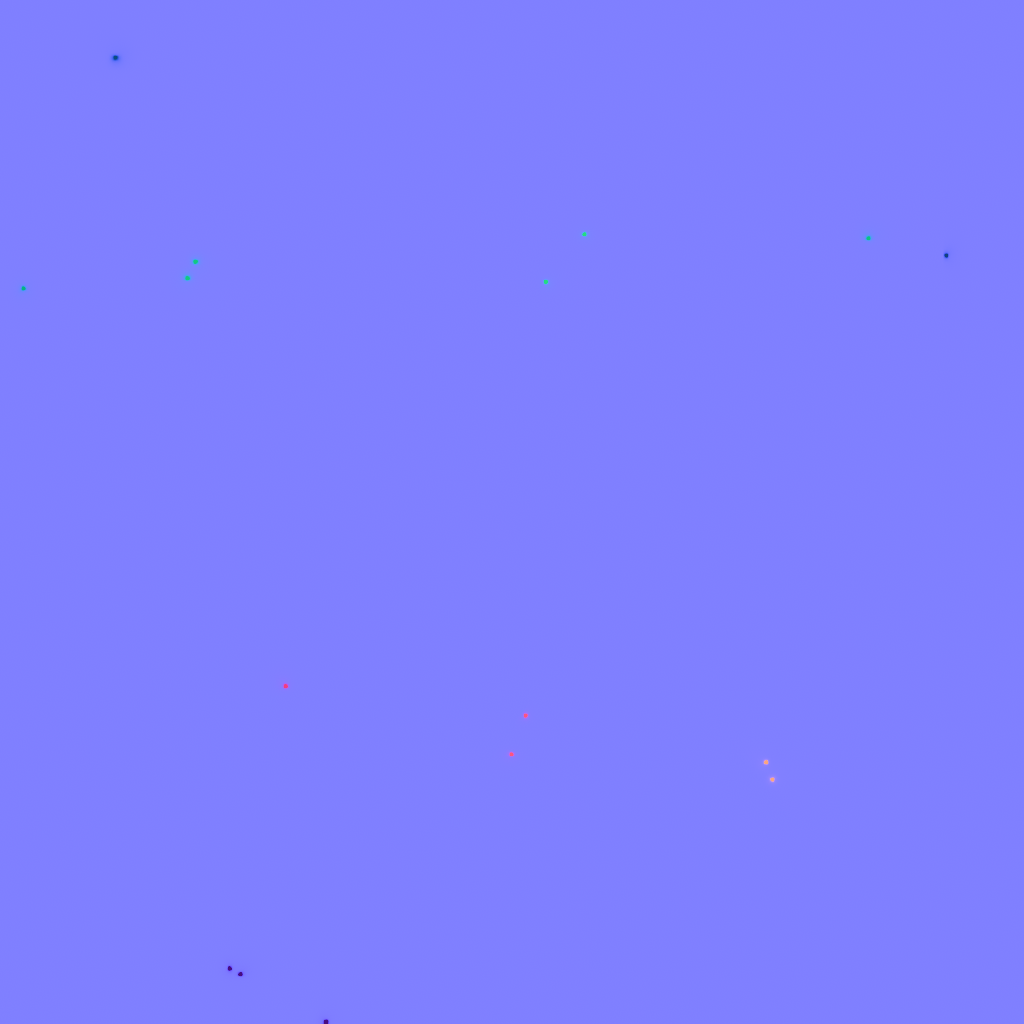
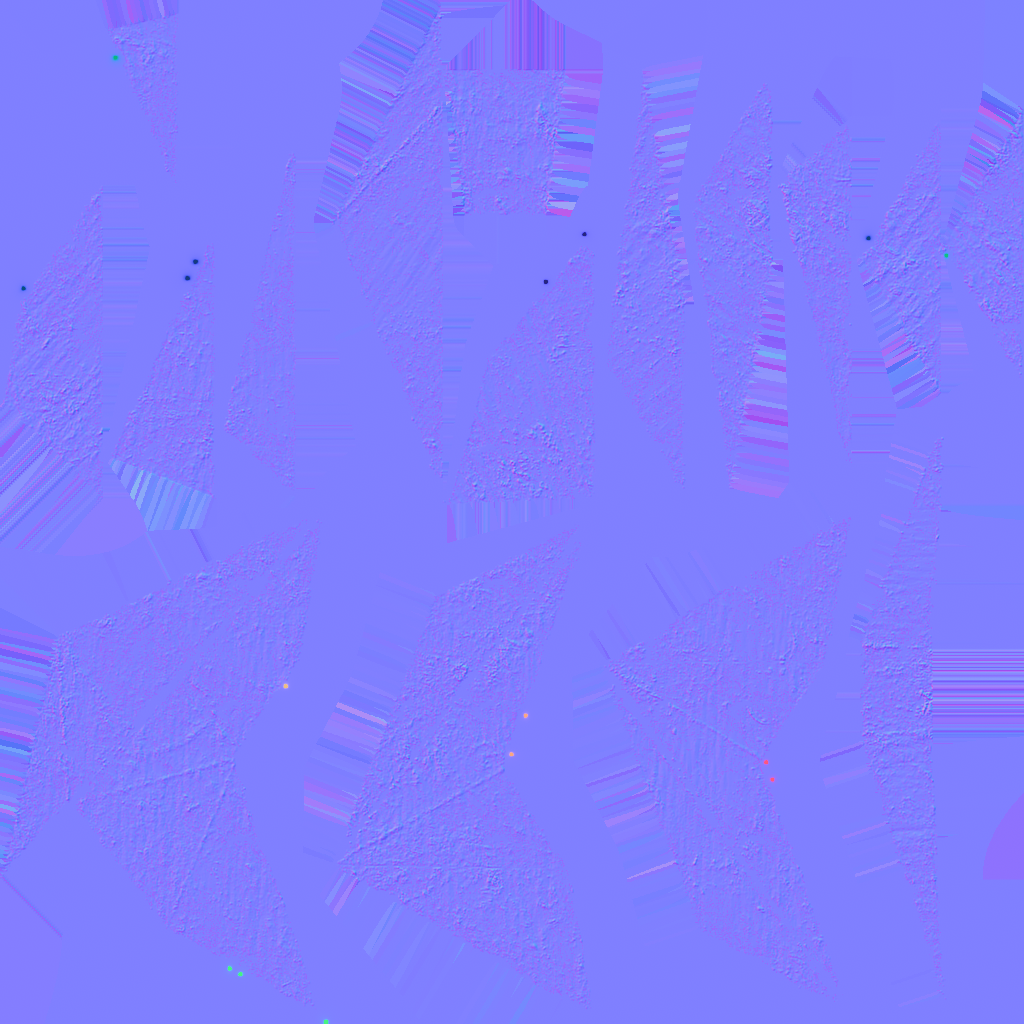
pbr

diff --git a/sf/main.cpp b/sf/main.cpp
@@ -68,28 +68,29 @@ int main(void)
 	glEnable(GL_DEPTH_TEST);
 	glClearColor(BACKGROUND_COLOR, BACKGROUND_COLOR, BACKGROUND_COLOR, 1);
 
-	Shader theShader("res/shaders/defaultV.shader", "res/shaders/defaultF.shader");
-	Shader noiseShader("user/noiseV.shader", "user/noiseF.shader");
-	Shader colorShader("user/randomColorsV.shader", "user/randomColorsF.shader");
+	Shader pbrShader("res/shaders/pbrV.shader", "res/shaders/pbrF.shader");
 
 	Texture shipTexture("user/64/wolfen/Wolfen_plate_BaseColor.png", Texture::Type::Albedo);
-	Texture shipNormalmap("user/64/wolfen/Wolfen_plate_Normal.png", Texture::Type::NormalMap);
+	Texture shipNormals("user/64/wolfen/Wolfen_plate_Normal.png", Texture::Type::NormalMap);
+	Texture shipRoughness("user/64/wolfen/Wolfen_plate_Roughness.png", Texture::Type::Albedo);
+	Texture shipMetallic("user/64/wolfen/Wolfen_plate_Metallic.png", Texture::Type::Albedo);
 
-	Texture butterflyTexture("user/64/butterfly/Butterfly Fighter_pink_AlbedoTransparency.png", Texture::Type::Albedo);
-	Texture butterflyNormalmap("user/64/butterfly/Butterfly Fighter_pink_Normal.png", Texture::Type::NormalMap);
+	Texture bTexture("user/64/butterfly/Butterfly Fighter_pink_BaseColor.png", Texture::Type::Albedo);
+	Texture bNormals("user/64/butterfly/Butterfly Fighter_pink_Normal.png", Texture::Type::NormalMap);
+	Texture bRoughness("user/64/butterfly/Butterfly Fighter_pink_Roughness.png", Texture::Type::Albedo);
+	Texture bMetallic("user/64/butterfly/Butterfly Fighter_pink_Metallic.png", Texture::Type::Albedo);
 
-	Texture babyTexture("user/64/bb/young_darkskinned_male_diffuse.png", Texture::Type::Albedo);
+	Material shipMaterial(&pbrShader);
+	shipMaterial.SetUniform("albedoTexture", &shipTexture, Material::UniformType::_Texture);
+	shipMaterial.SetUniform("normalTexture", &shipNormals, Material::UniformType::_Texture);
+	shipMaterial.SetUniform("roughnessTexture", &shipRoughness, Material::UniformType::_Texture);
+	shipMaterial.SetUniform("metalnessTexture", &shipMetallic, Material::UniformType::_Texture);
 
-	Material colorsMaterial(&colorShader);
-	Material noiseMaterial(&noiseShader);
-
-	Material shipMaterial(&theShader);
-	shipMaterial.SetUniform("albedo", &shipTexture, Material::UniformType::_Texture);
-	shipMaterial.SetUniform("normalMap", &shipNormalmap, Material::UniformType::_Texture);
-
-	Material butterflyMaterial(&theShader);
-	butterflyMaterial.SetUniform("albedo", &butterflyTexture, Material::UniformType::_Texture);
-	butterflyMaterial.SetUniform("normalMap", &butterflyNormalmap, Material::UniformType::_Texture);
+	Material bMaterial(&pbrShader);
+	bMaterial.SetUniform("albedoTexture", &bTexture, Material::UniformType::_Texture);
+	bMaterial.SetUniform("normalTexture", &bNormals, Material::UniformType::_Texture);
+	bMaterial.SetUniform("roughnessTexture", &bRoughness, Material::UniformType::_Texture);
+	bMaterial.SetUniform("metalnessTexture", &bMetallic, Material::UniformType::_Texture);
 
 	Model ship;
 	ship.CreateFromOBJ("user/64/wolfen/Wolfen.obj", 0.3, true);
@@ -99,7 +100,7 @@ int main(void)
 
 	Model monkey;
 	monkey.CreateFromOBJ("user/64/Butterfly Fighter.obj", 1.0, true);
-	monkey.SetMaterial(&butterflyMaterial);
+	monkey.SetMaterial(&bMaterial);
 
 	ModelReference* monkeys = new ModelReference[4000];
 	for (int i = 0; i < 4000; i++)
@@ -112,9 +113,9 @@ int main(void)
 		float choice = Math::Random();
 		if (choice < 0.333333);
 		else if (choice < 0.666666)
-			monkeys[i].SetMaterial(&colorsMaterial);
+			monkeys[i].SetMaterial(&bMaterial);
 		else
-			monkeys[i].SetMaterial(&noiseMaterial);
+			monkeys[i].SetMaterial(&bMaterial);
 	}
 
 	/* Loop until the user closes the window */

diff --git a/sf/Camera.cpp b/sf/Camera.cpp
@@ -41,4 +41,5 @@ void Camera::SendMatrixToShader(Shader& theShader)//updateshadermatrix
 	if (boundCamera->m_matrixUpdatePending)
 		boundCamera->UpdateCameraMatrix();
 	theShader.SetUniformMatrix4fv("cameraMatrix", &(boundCamera->m_cameraMatrix[0][0]));
+	theShader.SetUniform3fv("camPos", &(boundCamera->m_position[0]));
 }
